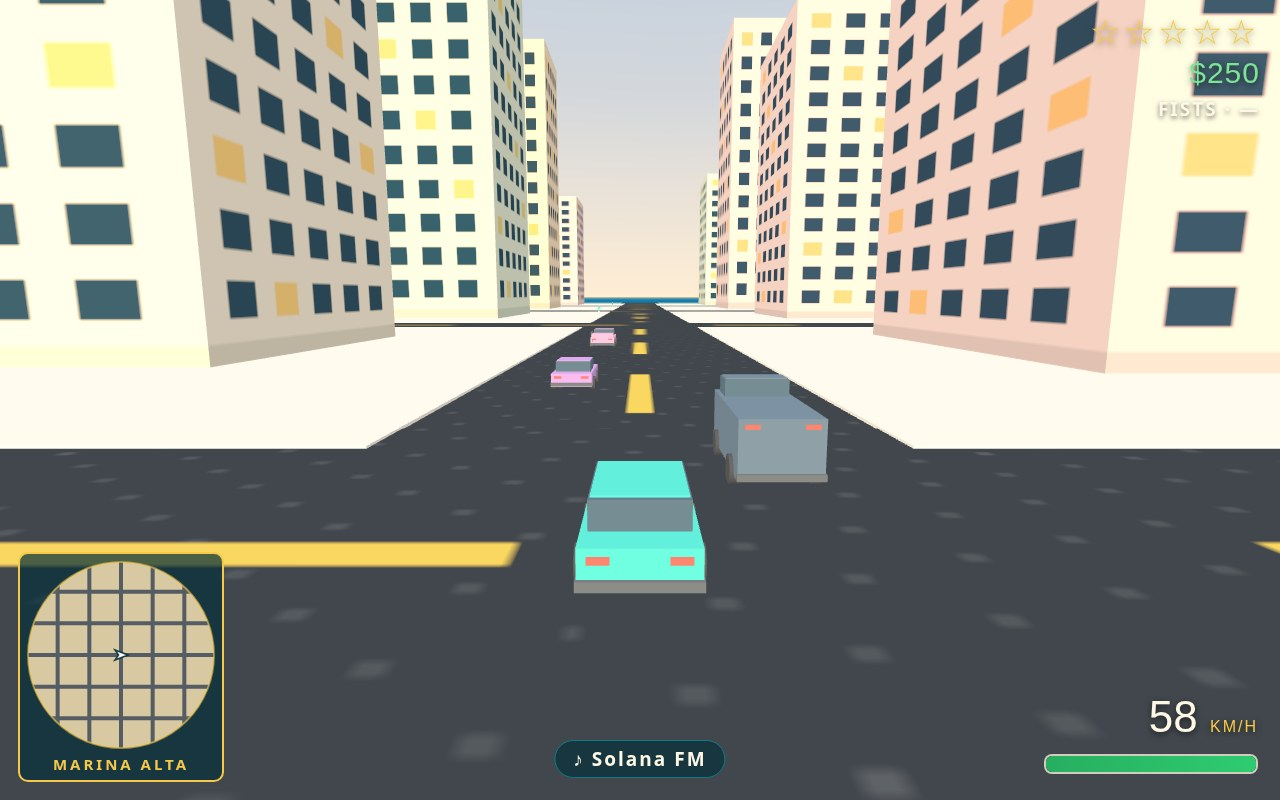
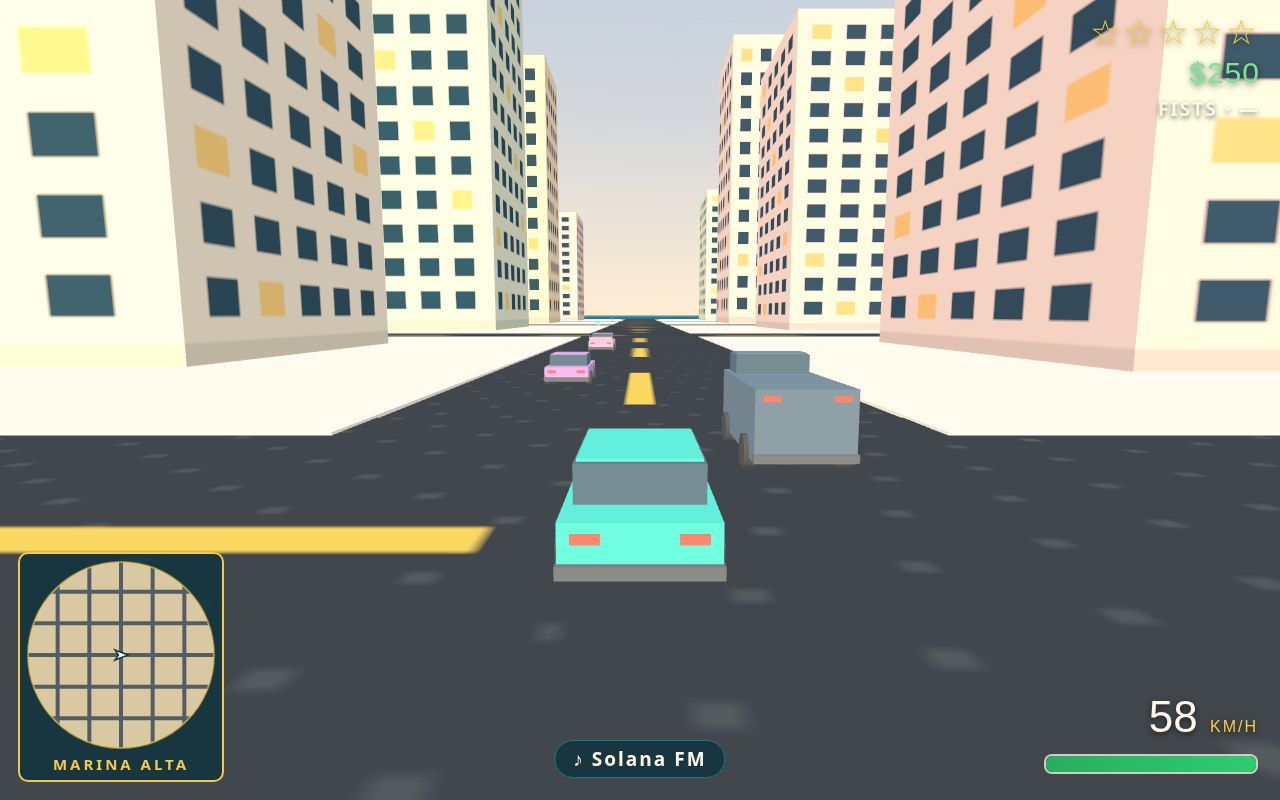
Polish pass: screenshot staging and beacon

Changed region(s): [[0.0, 0.0, 1.0, 0.75], [0.6562, 0.9688, 0.7188, 1.0], [0.9688, 0.6562, 1.0, 0.6875]]

diff --git a/game/src/shots.js b/game/src/shots.js
@@ -101,15 +101,41 @@ function stageCover(G) {
   const start = G.world.playerStart;
   const car = nearestCar(G, start.x, start.z, ['sport']) || nearestCar(G, start.x, start.z);
   if (car) {
-    setCarPose(car, -16, 350, 0.35, 0);
+    setCarPose(car, -18.5, 352.5, 0.35, 0);
     recolorCarPaint(car, 0xff5a4e);
   }
   // Hero pose: the player at the driver's door, facing the lens, the
   // coral car beside them, the avenue and palms in the midground and
-  // the pastel skyline behind — the city is the backdrop.
-  setPlayerOnFoot(G, -13.6, 351.5, headingToward(-13.6, 351.5, -24, 366));
+  // the pastel skyline behind — the city is the backdrop. The camera
+  // sits low and close so car and driver fill the centre third, with
+  // the avenue running diagonally out of the frame.
+  setPlayerOnFoot(G, -16.2, 353.8, headingToward(-16.2, 353.8, -25.5, 358.8));
+  // Set dressing: two more cars rest on the avenue in the
+  // mid-background (parked, so nothing drifts) and two locals idle on
+  // the sidewalk behind the hero — a living beachfront, not a diorama.
+  const setCars = G.cars.filter((c) => c !== car && c.state === 'traffic').slice(0, 2);
+  const carSpots = [
+    { x: 34, z: 354.5, h: Math.PI / 2 },
+    { x: -72, z: 365.5, h: -Math.PI / 2 },
+  ];
+  setCars.forEach((c, i) => {
+    if (!carSpots[i]) return;
+    setCarPose(c, carSpots[i].x, carSpots[i].z, carSpots[i].h, 0);
+    c.state = 'parked';
+  });
+  const pedSpots = [
+    { x: -26, z: 347.5 },
+    { x: -22, z: 350 },
+  ];
+  G.peds.slice(0, pedSpots.length).forEach((ped, i) => {
+    if (!ped || !ped.mesh) return;
+    ped.mesh.position.set(pedSpots[i].x, 0, pedSpots[i].z);
+    ped.state = 'stand';
+    ped.heading = headingToward(pedSpots[i].x, pedSpots[i].z, -25.5, 358.8);
+    ped.mesh.rotation.y = ped.heading;
+  });
   G.wanted = 0;
-  setCamera(G, -24, 2.6, 366, -14, 1.4, 349);
+  setCamera(G, -25.5, 1.9, 358.8, -16.8, 1.15, 352.2);
 }
 
 function stageDrive(G) {
@@ -127,7 +153,10 @@ function stageDrive(G) {
     if (spots[i]) setCarPose(c, spots[i].x, spots[i].z, spots[i].h, 12);
   });
   G.cameraYaw = Math.PI / 2;
-  setCamera(G, 79, 4.5, -180, 100, 1.2, -180);
+  // Tight chase cam: nine metres behind the hero car (it runs +x at
+  // heading PI/2) and low, looking eight metres past its nose, so
+  // the car fills the lower frame against the downtown towers.
+  setCamera(G, 81, 3.2, -180, 98, 1, -180);
 }
 
 // The chase frame: five stars on the beachfront avenue, police in the
@@ -156,16 +185,14 @@ function stageChase(G) {
 
   // Dressing pass: wherever the simulation scattered them, the frame
   // needs the hero eastbound on the avenue with patrol cars in its
-  // mirrors — re-pose the hero, then line the nearest cops up behind.
+  // mirrors — re-pose the hero, then herd the nearest cops in close
+  // behind it, 13 + (i % 3) * 5 metres back, one per avenue lane.
   if (hero) putPlayerInCar(G, hero, 0, 360, Math.PI / 2, 30);
-  const dressSpots = [
-    { x: -11, z: 356.8 },
-    { x: -19, z: 363.5 },
-    { x: -28, z: 357.5 },
-  ];
-  G.cops.slice(0, dressSpots.length).forEach((cop, i) => {
+  const dressLanes = [356.8, 363.5, 357.5];
+  G.cops.slice(0, dressLanes.length).forEach((cop, i) => {
     if (!cop || !cop.mesh) return;
-    cop.mesh.position.set(dressSpots[i].x, 0, dressSpots[i].z);
+    const behind = 13 + (i % 3) * 5;
+    cop.mesh.position.set(-behind, 0, dressLanes[i]);
     cop.heading = Math.PI / 2;
     cop.mesh.rotation.y = Math.PI / 2;
     cop.speed = 28;
@@ -174,7 +201,7 @@ function stageChase(G) {
   // Helicopter: police.js keeps it as a record ({ mesh, angle }), so
   // pose the mesh — above the pursuit, rotor spun for the frame.
   if (G.heli && G.heli.mesh) {
-    G.heli.mesh.position.set(-14, 22, 352);
+    G.heli.mesh.position.set(-12, 13.5, 353);
     G.heli.mesh.rotation.y = Math.PI / 2;
     const rotor = G.heli.mesh.userData.rotor;
     if (rotor) rotor.rotation.y += 0.9;
@@ -198,8 +225,9 @@ function stageChase(G) {
   }
 
   // From the beach, looking back along the avenue: hero in front,
-  // patrol cars behind it, helicopter above them, skyline beyond.
-  setCamera(G, 30, 6.5, 338, -6, 1.2, 359);
+  // patrol cars close behind it, the helicopter fully inside the
+  // upper third of the frame, skyline beyond.
+  setCamera(G, 20, 5.5, 338, -2, 1.2, 359.5);
 }
 
 // The mission frame: the player meets Lucia at her beach kiosk,
@@ -247,9 +275,10 @@ function stageMission(G) {
   if (G.say) {
     G.say(['Lucia Ferrer: You came. Good — Solana rewards the bold.']);
   }
-  // From the sand, looking north past the meeting: Lucia, her beacon
-  // and the player against the avenue and the skyline, not the sea.
-  setCamera(G, -41, 3.0, 413, -50, 1.5, 396);
+  // From the sand, close in and low, looking north past the meeting:
+  // Lucia, her beacon and the player fill the centre against the
+  // avenue and the skyline, the kiosk held at the frame's edge.
+  setCamera(G, -46.5, 1.8, 403.5, -50.3, 1.15, 396.6);
 }
 
 // --- Entry point -----------------------------------------------------------

diff --git a/game/src/missions.js b/game/src/missions.js
@@ -250,14 +250,19 @@ function swingLimbs(ped, dt, speed) {
 
 // makeBeacon(colorHex) -> { group, ring }: a pillar of light with a
 // bobbing ring at its base — gold for story goals, teal for races.
+// The pillar stays a soft shaft, never a blown-out column: normal
+// blending at low opacity, front faces only. (Additive blending
+// stacks the shaft's light onto an already bright golden-hour sky
+// and saturates to white no matter how low the opacity goes;
+// tinting toward the beacon colour keeps the shaft visibly gold.)
 function makeBeacon(colorHex) {
   const group = new THREE.Group();
   const pillar = new THREE.Mesh(
     new THREE.CylinderGeometry(1.7, 1.7, 26, 20, 1, true),
     new THREE.MeshBasicMaterial({
-      color: colorHex, transparent: true, opacity: 0.3,
-      blending: THREE.AdditiveBlending, depthWrite: false,
-      side: THREE.DoubleSide, fog: false,
+      color: colorHex, transparent: true, opacity: 0.38,
+      blending: THREE.NormalBlending, depthWrite: false,
+      side: THREE.FrontSide, fog: false,
     }),
   );
   pillar.position.y = 13;
